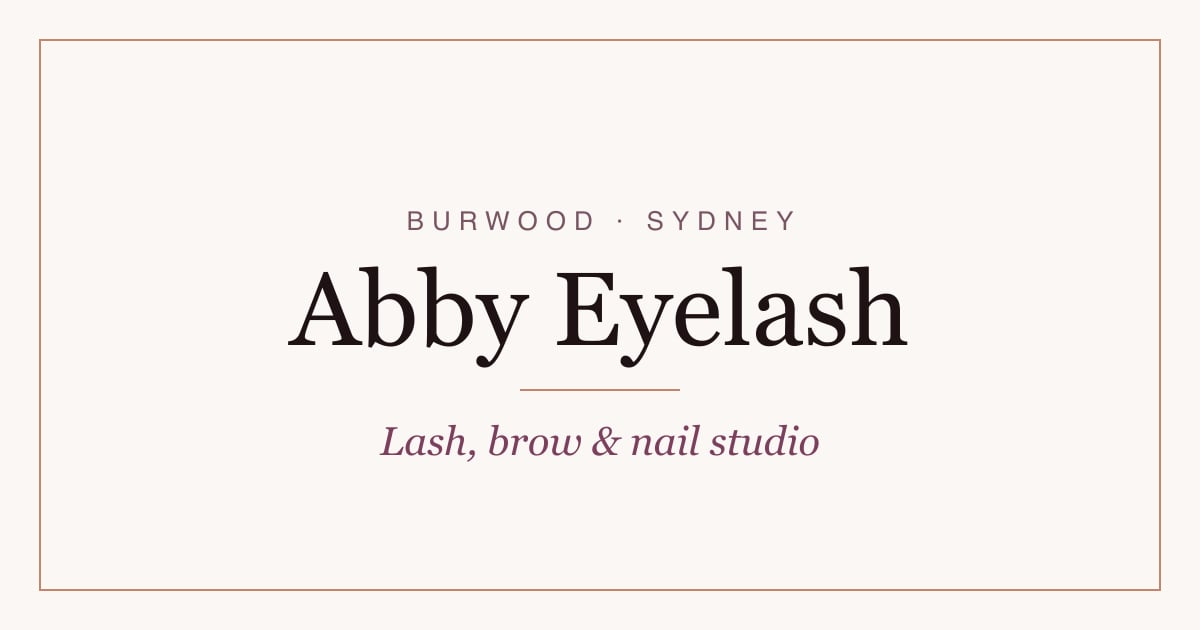
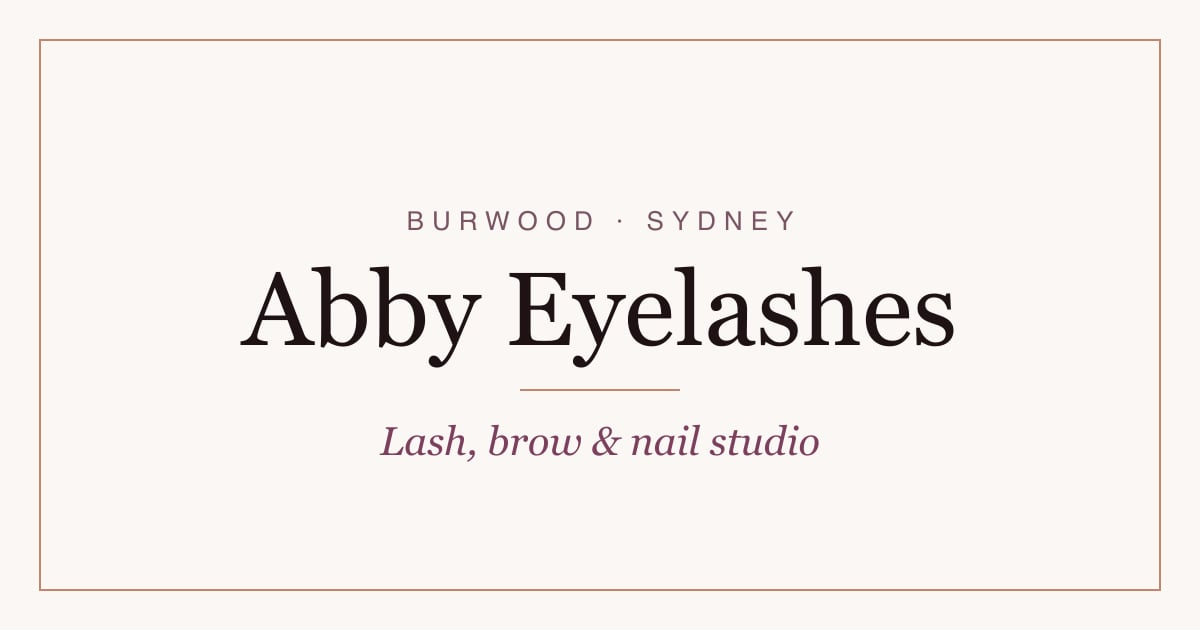
Brand name: Abby Eyelashes (matches the domain and the GA4 account)
All listings copy the name from src/data/site.ts and none exist yet, so this is the cheapest moment.
Needs Abby's OK; revert this one commit to go back to "Abby Eyelash".
Shorter gel-nails title to stay within 60 characters; OG image regenerated.

Changed region(s): [[0.185, 0.4222, 0.8017, 0.6032]]

diff --git a/src/data/service-content.ts b/src/data/service-content.ts
@@ -85,10 +85,10 @@ const nailSafety = {
 const content: Record<string, Record<Lang, ServiceContent>> = {
   [L]: {
     en: {
-      title: 'Eyelash Extensions in Burwood | Abby Eyelash',
+      title: 'Eyelash Extensions in Burwood | Abby Eyelashes',
       description: `Japanese classic and hybrid eyelash extensions by Abby in Burwood NSW. Full sets from ${$(L, 'classic-natural')}, infills from ${opt(L, 'infill-2w').pct}% of your last price. Aftercare and allergy advice.`,
       h1: ['Eyelash extensions ', 'in Burwood.'],
-      intro: `Eyelash extensions are single synthetic lashes bonded one at a time to your natural lashes with a cosmetic adhesive. At Abby Eyelash in Burwood NSW 2134, a Japanese classic set is ${$(L, 'classic-natural')} natural or ${$(L, 'classic-full')} full (about ${span(L, 'classic-natural', 'classic-full')} minutes), and a hybrid set is ${$(L, 'hybrid-natural')} natural or ${$(L, 'hybrid-full')} full. Each extension lasts as long as the natural lash it sits on, so most clients book an infill every 2–3 weeks; the price depends on how soon you come back.`,
+      intro: `Eyelash extensions are single synthetic lashes bonded one at a time to your natural lashes with a cosmetic adhesive. At Abby Eyelashes in Burwood NSW 2134, a Japanese classic set is ${$(L, 'classic-natural')} natural or ${$(L, 'classic-full')} full (about ${span(L, 'classic-natural', 'classic-full')} minutes), and a hybrid set is ${$(L, 'hybrid-natural')} natural or ${$(L, 'hybrid-full')} full. Each extension lasts as long as the natural lash it sits on, so most clients book an infill every 2–3 weeks; the price depends on how soon you come back.`,
       sections: [
         {
           h2: ['Classic, hybrid or styled: ', 'which suits you?'],
@@ -164,10 +164,10 @@ const content: Record<string, Record<Lang, ServiceContent>> = {
       ],
     },
     zh: {
-      title: '宝活 Burwood 嫁接睫毛 | Abby Eyelash 美睫',
+      title: '宝活 Burwood 嫁接睫毛 | Abby Eyelashes 美睫',
       description: `悉尼宝活 Burwood 嫁接睫毛：日式单根 ${$(L, 'classic-natural')} 起，回补为上次价格的 ${opt(L, 'infill-2w').pct}% 起。Abby 亲手逐根嫁接，附术后护理、回补价格和过敏说明。`,
       h1: ['宝活 Burwood ', '嫁接睫毛'],
-      intro: `嫁接睫毛（也叫种睫毛、接睫毛）是用专用睫毛胶，把一根根合成睫毛逐根粘在你的真睫毛上。在 Burwood NSW 2134 的 Abby Eyelash，日式单根自然款 ${$(L, 'classic-natural')}、浓密款 ${$(L, 'classic-full')}（约 ${span(L, 'classic-natural', 'classic-full')} 分钟），开花 / 轻盈自然款 ${$(L, 'hybrid-natural')}、浓密款 ${$(L, 'hybrid-full')}。嫁接的睫毛会随真睫毛自然脱落，大多数客人每 2–3 周回补一次，越早回补越便宜。`,
+      intro: `嫁接睫毛（也叫种睫毛、接睫毛）是用专用睫毛胶，把一根根合成睫毛逐根粘在你的真睫毛上。在 Burwood NSW 2134 的 Abby Eyelashes，日式单根自然款 ${$(L, 'classic-natural')}、浓密款 ${$(L, 'classic-full')}（约 ${span(L, 'classic-natural', 'classic-full')} 分钟），开花 / 轻盈自然款 ${$(L, 'hybrid-natural')}、浓密款 ${$(L, 'hybrid-full')}。嫁接的睫毛会随真睫毛自然脱落，大多数客人每 2–3 周回补一次，越早回补越便宜。`,
       sections: [
         {
           h2: ['日式单根、开花还是造型款？', '怎么选'],
@@ -244,10 +244,10 @@ const content: Record<string, Record<Lang, ServiceContent>> = {
 
   [LL]: {
     en: {
-      title: 'Keratin Lash Lift in Burwood | Abby Eyelash',
+      title: 'Keratin Lash Lift in Burwood | Abby Eyelashes',
       description: `Keratin lash lift in Burwood NSW: ${$(LL, 'keratin-lift')}, about ${m(LL, 'keratin-lift')} minutes, results last 1–2 months. What happens, aftercare, sensitive eyes and who it suits.`,
       h1: ['Keratin lash lift ', 'in Burwood.'],
-      intro: `A keratin lash lift curls your own lashes upward from the root with a lifting solution and a keratin treatment, so they look longer and more open without mascara or extensions. Tinting is not included. At Abby Eyelash in Burwood NSW 2134, a keratin lash lift is ${$(LL, 'keratin-lift')} and takes about ${m(LL, 'keratin-lift')} minutes. Results usually last 1–2 months, depending on how fast your lashes grow.`,
+      intro: `A keratin lash lift curls your own lashes upward from the root with a lifting solution and a keratin treatment, so they look longer and more open without mascara or extensions. Tinting is not included. At Abby Eyelashes in Burwood NSW 2134, a keratin lash lift is ${$(LL, 'keratin-lift')} and takes about ${m(LL, 'keratin-lift')} minutes. Results usually last 1–2 months, depending on how fast your lashes grow.`,
       sections: [
         {
           h2: ['Who a lash lift ', 'suits'],
@@ -318,10 +318,10 @@ const content: Record<string, Record<Lang, ServiceContent>> = {
       ],
     },
     zh: {
-      title: '宝活 Burwood 角蛋白翘睫 | Abby Eyelash',
+      title: '宝活 Burwood 角蛋白翘睫 | Abby Eyelashes',
       description: `悉尼宝活 Burwood 角蛋白翘睫：${$(LL, 'keratin-lift')}，约 ${m(LL, 'keratin-lift')} 分钟，效果可维持 1–2 个月。流程、术后护理、敏感眼睛和适合人群说明。`,
       h1: ['宝活 Burwood ', '角蛋白翘睫'],
-      intro: `翘睫（也叫睫毛翘、角蛋白翘睫）是用专用药水把你自己的睫毛从根部往上定型，再做角蛋白护理，不用睫毛膏、不用嫁接也显得更长更有神。不含染色。在 Burwood NSW 2134 的 Abby Eyelash，角蛋白翘睫 ${$(LL, 'keratin-lift')}，约 ${m(LL, 'keratin-lift')} 分钟。效果可维持 1–2 个月，视个人睫毛生长速度而定。`,
+      intro: `翘睫（也叫睫毛翘、角蛋白翘睫）是用专用药水把你自己的睫毛从根部往上定型，再做角蛋白护理，不用睫毛膏、不用嫁接也显得更长更有神。不含染色。在 Burwood NSW 2134 的 Abby Eyelashes，角蛋白翘睫 ${$(LL, 'keratin-lift')}，约 ${m(LL, 'keratin-lift')} 分钟。效果可维持 1–2 个月，视个人睫毛生长速度而定。`,
       sections: [
         {
           h2: ['哪些人', '适合翘睫'],
@@ -395,10 +395,10 @@ const content: Record<string, Record<Lang, ServiceContent>> = {
 
   [B]: {
     en: {
-      title: 'Powder Brows in Burwood | Semi-Permanent | Abby Eyelash',
+      title: 'Powder Brows in Burwood | Semi-Permanent | Abby Eyelashes',
       description: `Semi-permanent powder brows by Abby in Burwood NSW: ${$(B, 'powder')} (was $${was(B, 'powder')}), about ${m(B, 'powder')} minutes, one free touch-up within 3 months. Healing and aftercare.`,
       h1: ['Powder brows ', 'in Burwood.'],
-      intro: `Powder brows (also called ombré brows or a powder brow tattoo) are a semi-permanent brow treatment: fine dots of cosmetic pigment are placed in the skin to build a soft, filled-in look, like a light brow powder that doesn’t wash off. At Abby Eyelash in Burwood NSW 2134, powder brows are currently ${$(B, 'powder')} (usually $${was(B, 'powder')}) and take about ${m(B, 'powder')} minutes, including mapping the shape with you. One touch-up within 3 months is included free.`,
+      intro: `Powder brows (also called ombré brows or a powder brow tattoo) are a semi-permanent brow treatment: fine dots of cosmetic pigment are placed in the skin to build a soft, filled-in look, like a light brow powder that doesn’t wash off. At Abby Eyelashes in Burwood NSW 2134, powder brows are currently ${$(B, 'powder')} (usually $${was(B, 'powder')}) and take about ${m(B, 'powder')} minutes, including mapping the shape with you. One touch-up within 3 months is included free.`,
       sections: [
         {
           h2: ['Who powder brows ', 'suit'],
@@ -451,15 +451,15 @@ const content: Record<string, Record<Lang, ServiceContent>> = {
         CANCEL_BROWS.en,
       ],
       alt: {
-        hero: 'Soft, shaded powder brows after a semi-permanent brow appointment at Abby Eyelash, Burwood',
+        hero: 'Soft, shaded powder brows after a semi-permanent brow appointment at Abby Eyelashes, Burwood',
         detail: 'Abby mapping a brow shape before a powder brows treatment',
       },
     },
     zh: {
-      title: '宝活 Burwood 半永久雾眉 | Abby Eyelash',
+      title: '宝活 Burwood 半永久雾眉 | Abby Eyelashes',
       description: `悉尼宝活 Burwood 半永久雾眉：现价 ${$(B, 'powder')}（原价 $${was(B, 'powder')}），约 ${m(B, 'powder')} 分钟，3 个月内免费补色一次。流程、恢复期与护理说明。`,
       h1: ['宝活 Burwood ', '半永久雾眉'],
-      intro: `雾眉（也就是常说的半永久纹眉、粉雾眉）是一种半永久眉妆：用很细的点状手法把色料打入皮肤浅层，形成柔和的粉雾感，像淡淡的眉粉，但不会被洗掉。在 Burwood NSW 2134 的 Abby Eyelash，雾眉现价 ${$(B, 'powder')}（原价 $${was(B, 'powder')}），约 ${m(B, 'powder')} 分钟，包含和你一起设计眉形。3 个月内免费补色一次。`,
+      intro: `雾眉（也就是常说的半永久纹眉、粉雾眉）是一种半永久眉妆：用很细的点状手法把色料打入皮肤浅层，形成柔和的粉雾感，像淡淡的眉粉，但不会被洗掉。在 Burwood NSW 2134 的 Abby Eyelashes，雾眉现价 ${$(B, 'powder')}（原价 $${was(B, 'powder')}），约 ${m(B, 'powder')} 分钟，包含和你一起设计眉形。3 个月内免费补色一次。`,
       sections: [
         {
           h2: ['哪些人', '适合雾眉'],
@@ -512,7 +512,7 @@ const content: Record<string, Record<Lang, ServiceContent>> = {
         CANCEL_BROWS.zh,
       ],
       alt: {
-        hero: 'Abby Eyelash（Burwood）完成的柔和半永久雾眉',
+        hero: 'Abby Eyelashes（Burwood）完成的柔和半永久雾眉',
         detail: 'Abby 在做雾眉前为客人设计眉形',
       },
     },
@@ -520,10 +520,10 @@ const content: Record<string, Record<Lang, ServiceContent>> = {
 
   [H]: {
     en: {
-      title: 'Hand-Painted Nail Art in Burwood | Abby Eyelash',
+      title: 'Hand-Painted Nail Art in Burwood | Abby Eyelashes',
       description: `Custom hand-painted nail art designed with you and painted by Abby in Burwood NSW. Priced per design, from about ${m(H, 'nail-art')} minutes. Extensions ${ext()} per nail.`,
       h1: ['Hand-painted nail art ', 'in Burwood.'],
-      intro: `Hand-painted nail art is a custom design that Abby plans with you and paints by hand with fine brushes, not stickers or printed wraps. At Abby Eyelash in Burwood NSW 2134, each design is priced individually because it depends on the detail and the number of nails; Abby confirms the price with you before she starts. Allow at least ${m(H, 'nail-art')} minutes. Painted over gel and sealed with a gel top coat, it typically lasts about 4 weeks.`, // OWNER-REVIEW: wear time
+      intro: `Hand-painted nail art is a custom design that Abby plans with you and paints by hand with fine brushes, not stickers or printed wraps. At Abby Eyelashes in Burwood NSW 2134, each design is priced individually because it depends on the detail and the number of nails; Abby confirms the price with you before she starts. Allow at least ${m(H, 'nail-art')} minutes. Painted over gel and sealed with a gel top coat, it typically lasts about 4 weeks.`, // OWNER-REVIEW: wear time
       sections: [
         {
           h2: ['Designs ', 'made with you'],
@@ -576,10 +576,10 @@ const content: Record<string, Record<Lang, ServiceContent>> = {
       ],
     },
     zh: {
-      title: '宝活 Burwood 手绘造型美甲 | Abby Eyelash',
+      title: '宝活 Burwood 手绘造型美甲 | Abby Eyelashes',
       description: `悉尼宝活 Burwood 手绘造型美甲：和你一起设计，由 Abby 亲手绘制。按款式报价，约 ${m(H, 'nail-art')} 分钟起。延长每只 ${ext()}。`,
       h1: ['宝活 Burwood ', '手绘造型'],
-      intro: `手绘造型是 Abby 和你一起设计、再用细笔一笔一笔手绘的定制款，不用贴纸，也不是印花甲片。在 Burwood NSW 2134 的 Abby Eyelash，每款都单独报价，价格取决于图案的复杂程度和画几根，Abby 会在开始前跟你确认价格。时间请预留 ${m(H, 'nail-art')} 分钟以上。图案画在凝胶上，再用封层封住，一般能维持 4 周左右。`, // OWNER-REVIEW
+      intro: `手绘造型是 Abby 和你一起设计、再用细笔一笔一笔手绘的定制款，不用贴纸，也不是印花甲片。在 Burwood NSW 2134 的 Abby Eyelashes，每款都单独报价，价格取决于图案的复杂程度和画几根，Abby 会在开始前跟你确认价格。时间请预留 ${m(H, 'nail-art')} 分钟以上。图案画在凝胶上，再用封层封住，一般能维持 4 周左右。`, // OWNER-REVIEW
       sections: [
         {
           h2: ['和你一起', '设计'],
@@ -635,10 +635,10 @@ const content: Record<string, Record<Lang, ServiceContent>> = {
 
   [G]: {
     en: {
-      title: 'Gel Nails Burwood | Cat-Eye · Aurora · French | Abby Eyelash',
+      title: 'Gel Nails Burwood · Cat-Eye, Aurora, French | Abby Eyelashes',
       description: `Gel nails in Burwood NSW by Abby: solid colour ${$(G, 'solid')}, cat-eye or aurora ${$(G, 'cat-eye')}, French ${$(G, 'french')}, builder gel included. Extensions ${ext()} per nail.`,
       h1: ['Gel nails ', 'in Burwood.'],
-      intro: `Gel nails (a gel manicure, sometimes called gel polish) are coloured gel cured under a lamp, so they leave the studio dry and glossy and typically last about 4 weeks. At Abby Eyelash in Burwood NSW 2134, every gel set includes a builder gel layer for strength: solid colour is ${$(G, 'solid')} (about ${m(G, 'solid')} minutes), cat-eye and aurora are ${$(G, 'cat-eye')} (about ${m(G, 'cat-eye')} minutes), and French is ${$(G, 'french')} (about ${m(G, 'french')} minutes). Extensions can be added for ${ext()} per nail.`,
+      intro: `Gel nails (a gel manicure, sometimes called gel polish) are coloured gel cured under a lamp, so they leave the studio dry and glossy and typically last about 4 weeks. At Abby Eyelashes in Burwood NSW 2134, every gel set includes a builder gel layer for strength: solid colour is ${$(G, 'solid')} (about ${m(G, 'solid')} minutes), cat-eye and aurora are ${$(G, 'cat-eye')} (about ${m(G, 'cat-eye')} minutes), and French is ${$(G, 'french')} (about ${m(G, 'french')} minutes). Extensions can be added for ${ext()} per nail.`,
       sections: [
         {
           h2: ['Four finishes: ', 'which one?'],
@@ -691,10 +691,10 @@ const content: Record<string, Record<Lang, ServiceContent>> = {
       ],
     },
     zh: {
-      title: '宝活 Burwood 凝胶美甲 | 猫眼 · 极光 · 法式 | Abby Eyelash',
+      title: '宝活 Burwood 凝胶美甲 | 猫眼 · 极光 · 法式 | Abby Eyelashes',
       description: `悉尼宝活 Burwood 凝胶美甲：单色 ${$(G, 'solid')}，猫眼或极光 ${$(G, 'cat-eye')}，法式 ${$(G, 'french')}，已含 Gel 建构。延长每只 ${ext()}。`,
       h1: ['宝活 Burwood ', '凝胶美甲'],
-      intro: `凝胶美甲（也叫光疗甲、甲油胶美甲）是照灯固化的彩色凝胶，做完就干、有光泽，一般能维持 4 周左右。在 Burwood NSW 2134 的 Abby Eyelash，每一套凝胶美甲都已包含 Gel 建构，让指甲更坚固：单色 ${$(G, 'solid')}（约 ${m(G, 'solid')} 分钟），猫眼和极光 ${$(G, 'cat-eye')}（约 ${m(G, 'cat-eye')} 分钟），法式 ${$(G, 'french')}（约 ${m(G, 'french')} 分钟）。需要加长可加选延长，每只 ${ext()}。`,
+      intro: `凝胶美甲（也叫光疗甲、甲油胶美甲）是照灯固化的彩色凝胶，做完就干、有光泽，一般能维持 4 周左右。在 Burwood NSW 2134 的 Abby Eyelashes，每一套凝胶美甲都已包含 Gel 建构，让指甲更坚固：单色 ${$(G, 'solid')}（约 ${m(G, 'solid')} 分钟），猫眼和极光 ${$(G, 'cat-eye')}（约 ${m(G, 'cat-eye')} 分钟），法式 ${$(G, 'french')}（约 ${m(G, 'french')} 分钟）。需要加长可加选延长，每只 ${ext()}。`,
       sections: [
         {
           h2: ['四种款式，', '怎么选'],
@@ -750,10 +750,10 @@ const content: Record<string, Record<Lang, ServiceContent>> = {
 
   [X]: {
     en: {
-      title: 'Nail Extensions in Burwood | $6 per Nail | Abby Eyelash',
+      title: 'Nail Extensions in Burwood | $6 per Nail | Abby Eyelashes',
       description: `Nail tip extensions in Burwood NSW by Abby: ${ext()} per nail, added to any gel or hand-painted design. How it works, how long it lasts and aftercare.`,
       h1: ['Nail extensions ', 'in Burwood.'],
-      intro: `Nail extensions add length and shape with a nail tip bonded to your natural nail and finished in gel. At Abby Eyelash in Burwood NSW 2134, extensions are ${ext()} per nail and are added to any ${link('en', G, 'gel nail')} or ${link('en', H, 'hand-painted')} design, so you only pay for the nails you want longer. When you book, choose your design first and then the number of nails to extend.`,
+      intro: `Nail extensions add length and shape with a nail tip bonded to your natural nail and finished in gel. At Abby Eyelashes in Burwood NSW 2134, extensions are ${ext()} per nail and are added to any ${link('en', G, 'gel nail')} or ${link('en', H, 'hand-painted')} design, so you only pay for the nails you want longer. When you book, choose your design first and then the number of nails to extend.`,
       sections: [
         {
           h2: ['How the price ', 'works'],
@@ -805,10 +805,10 @@ const content: Record<string, Record<Lang, ServiceContent>> = {
       ],
     },
     zh: {
-      title: '宝活 Burwood 延长甲 | 每只 $6 | Abby Eyelash',
+      title: '宝活 Burwood 延长甲 | 每只 $6 | Abby Eyelashes',
       description: `悉尼宝活 Burwood 甲片延长：每只 ${ext()}，可加在任何凝胶或手绘款上。流程、能维持多久和护理方法。`,
       h1: ['宝活 Burwood ', '延长甲'],
-      intro: `延长甲是在真指甲上接上甲片、再用凝胶完成的加长方式，马上就有长度和甲型。在 Burwood NSW 2134 的 Abby Eyelash，延长每只 ${ext()}，可以加在任何${link('zh', G, '凝胶美甲')}或${link('zh', H, '手绘造型')}上，想加长几只就付几只。预约时先选款式，再选要延长几只。`,
+      intro: `延长甲是在真指甲上接上甲片、再用凝胶完成的加长方式，马上就有长度和甲型。在 Burwood NSW 2134 的 Abby Eyelashes，延长每只 ${ext()}，可以加在任何${link('zh', G, '凝胶美甲')}或${link('zh', H, '手绘造型')}上，想加长几只就付几只。预约时先选款式，再选要延长几只。`,
       sections: [
         {
           h2: ['价格', '怎么算'],

diff --git a/src/i18n/booking.ts b/src/i18n/booking.ts
@@ -2,7 +2,7 @@
 import type { Lang } from '../data/services';
 
 const en = {
-  metaTitle: 'Book an appointment | Abby Eyelash, Burwood',
+  metaTitle: 'Book an appointment | Abby Eyelashes, Burwood',
   metaDescription:
     'Book eyelash extensions, lash lifts, powder brows or gel nails with Abby in Burwood NSW. Pick a service and time online; we confirm by SMS or WhatsApp.',
   eyebrow: 'Online booking',
@@ -58,7 +58,7 @@ const en = {
   sPrice: 'Price',
   sDeposit: 'Deposit',
   agreeDeposit: 'I agree to the deposit terms: if I cancel or reschedule within {hours} hours of my appointment, or don’t turn up, the ${deposit} deposit is not refunded. If I cancel earlier, it moves to my new booking or is refunded in full. If Abby has to cancel, it is refunded in full.',
-  agreePhotos: 'Optional: I am 18 or over, and Abby may photograph the result at my appointment (lashes, brows or nails; part of my face may show) and use the photos to promote Abby Eyelash on its website, social media and ads, with no payment to me. Abby Eyelash owns these photos and any income from them. Saying no doesn’t affect my booking. I can withdraw by message at any time: Abby then removes the photos from her website and social accounts within a reasonable time (printed materials and other people’s shares can’t be recalled).',
+  agreePhotos: 'Optional: I am 18 or over, and Abby may photograph the result at my appointment (lashes, brows or nails; part of my face may show) and use the photos to promote Abby Eyelashes on its website, social media and ads, with no payment to me. Abby Eyelashes owns these photos and any income from them. Saying no doesn’t affect my booking. I can withdraw by message at any time: Abby then removes the photos from her website and social accounts within a reasonable time (printed materials and other people’s shares can’t be recalled).',
   submit: 'Book appointment',
   submitting: 'Sending…',
   privacyNote: 'By booking you confirm you have read our {link}.',
@@ -85,13 +85,13 @@ const en = {
   addGoogle: 'Add to Google Calendar',
   downloadIcs: 'Download .ics',
   home: 'Back to home',
-  calendarTitle: '{service} at Abby Eyelash (pending)',
+  calendarTitle: '{service} at Abby Eyelashes (pending)',
 };
 
 type Strings = typeof en;
 
 const zh: Strings = {
-  metaTitle: '在线预约 | Abby Eyelash · Burwood 美睫美甲',
+  metaTitle: '在线预约 | Abby Eyelashes · Burwood 美睫美甲',
   metaDescription: '在线预约 Abby 的嫁接睫毛、翘睫、雾眉与美甲服务（悉尼 Burwood）。选择项目、日期和时间，我们会通过短信或 WhatsApp 确认。',
   eyebrow: '在线预约',
   titleA: '预约你的',
@@ -141,7 +141,7 @@ const zh: Strings = {
   sPrice: '价格',
   sDeposit: '订金',
   agreeDeposit: '我同意订金条款：如我在预约前 {hours} 小时以内取消或改期，或未到店，${deposit} 订金不予退还；提前 {hours} 小时以上取消，订金可顺延到新的预约，或全额退还；如 Abby 取消预约，订金全额退还。',
-  agreePhotos: '（选填）我已满 18 岁，同意 Abby 拍摄本次服务效果（睫毛、眉毛或美甲，照片可能包含部分面部），并用于 Abby Eyelash 的网站、社交媒体和广告宣传，我不收取任何费用。这些照片及由此产生的任何收益均归 Abby Eyelash 所有。不同意不影响预约。我可随时发消息撤回同意：Abby 会在合理时间内删除她网站和社交账号上的相关照片（已印刷的物料及他人转发的内容无法收回）。',
+  agreePhotos: '（选填）我已满 18 岁，同意 Abby 拍摄本次服务效果（睫毛、眉毛或美甲，照片可能包含部分面部），并用于 Abby Eyelashes 的网站、社交媒体和广告宣传，我不收取任何费用。这些照片及由此产生的任何收益均归 Abby Eyelashes 所有。不同意不影响预约。我可随时发消息撤回同意：Abby 会在合理时间内删除她网站和社交账号上的相关照片（已印刷的物料及他人转发的内容无法收回）。',
   submit: '提交预约',
   submitting: '提交中…',
   privacyNote: '提交即表示你已阅读我们的{link}。',
@@ -168,7 +168,7 @@ const zh: Strings = {
   addGoogle: '添加到 Google 日历',
   downloadIcs: '下载 .ics 日历文件',
   home: '返回首页',
-  calendarTitle: 'Abby Eyelash · {service}（待确认）',
+  calendarTitle: 'Abby Eyelashes · {service}（待确认）',
 };
 
 export const bookingStrings: Record<Lang, Strings> = { en, zh };

diff --git a/src/i18n/common.ts b/src/i18n/common.ts
@@ -17,7 +17,7 @@ const en = {
     openMenu: 'Open menu',
     closeMenu: 'Close menu',
     main: 'Main',
-    home: 'Abby Eyelash home',
+    home: 'Abby Eyelashes home',
     tagline: 'Lash & Nail Studio',
     language: 'Language',
   },
@@ -134,7 +134,7 @@ const en = {
     byAppointment: 'By appointment only — Abby works on her own, so please book ahead. Please text rather than call (SMS or WhatsApp): if a call goes unanswered, she’s with a client and will text you back as soon as she can.',
     lastStart: 'Hours are booking times: the last appointment starts at {time}.',
     openMaps: 'Open in Google Maps',
-    mapTitle: 'Map showing Abby Eyelash in Burwood',
+    mapTitle: 'Map showing Abby Eyelashes in Burwood',
     bookOnline: 'Book your appointment online',
     call: 'WhatsApp to book',
   },
@@ -157,7 +157,7 @@ const zh: Strings = {
     openMenu: '打开菜单',
     closeMenu: '关闭菜单',
     main: '主导航',
-    home: 'Abby Eyelash 首页',
+    home: 'Abby Eyelashes 首页',
     tagline: '美睫 · 美甲工作室',
     language: '语言',
   },
@@ -273,7 +273,7 @@ const zh: Strings = {
     byAppointment: '仅限预约 —— Abby 一人工作，请提前预约。联系请尽量发短信或 WhatsApp，不要直接打电话；如果来电没有接听，多半是正在为客人服务，她会稍后用短信回复你。',
     lastStart: '以上为可预约时间，最晚 {time} 开始。',
     openMaps: '在 Google 地图中打开',
-    mapTitle: 'Abby Eyelash 在宝活的位置地图',
+    mapTitle: 'Abby Eyelashes 在宝活的位置地图',
     bookOnline: '在线预约',
     call: 'WhatsApp 预约',
   },
@@ -363,7 +363,7 @@ export const homeFaq: Record<Lang, { q: string; a: string }[]> = {
     },
     {
       q: 'Where is the studio?',
-      a: 'Abby Eyelash is a home studio on {address}, about a 5-minute walk from Burwood station. The exact address is sent when your booking is confirmed.',
+      a: 'Abby Eyelashes is a home studio on {address}, about a 5-minute walk from Burwood station. The exact address is sent when your booking is confirmed.',
     },
     {
       q: 'What happens at my first visit?',
@@ -401,7 +401,7 @@ export const homeFaq: Record<Lang, { q: string; a: string }[]> = {
     },
     {
       q: '工作室在哪里？',
-      a: 'Abby Eyelash 是位于 {address} 的家庭工作室，从宝活火车站（Burwood station）步行约 5 分钟。确认预约时会把详细地址发给你。',
+      a: 'Abby Eyelashes 是位于 {address} 的家庭工作室，从宝活火车站（Burwood station）步行约 5 分钟。确认预约时会把详细地址发给你。',
     },
     {
       q: '第一次去需要注意什么？',

diff --git a/src/i18n/service.ts b/src/i18n/service.ts
@@ -4,7 +4,7 @@ import type { Lang } from '../data/services';
 const en = {
   home: 'Home',
   breadcrumb: 'Breadcrumb',
-  eyebrow: 'Abby Eyelash · Burwood',
+  eyebrow: 'Abby Eyelashes · Burwood',
   book: 'Book this service',
   bookShort: 'Book now',
   call: 'WhatsApp',
@@ -28,7 +28,7 @@ const en = {
   map: 'Open in Google Maps',
   review: 'Leave us a review on Google',
   relatedEyebrow: 'More services',
-  relatedTitle: ['Also at ', 'Abby Eyelash.'] as [string, string],
+  relatedTitle: ['Also at ', 'Abby Eyelashes.'] as [string, string],
   ctaTitle: ['Ready when ', 'you are.'] as [string, string],
   styledTitle: 'Styled sets, ',
   styledAccent: 'twelve ways.',
@@ -44,7 +44,7 @@ type Strings = typeof en;
 const zh: Strings = {
   home: '首页',
   breadcrumb: '页面路径',
-  eyebrow: 'Abby Eyelash · 宝活 Burwood',
+  eyebrow: 'Abby Eyelashes · 宝活 Burwood',
   book: '预约此项目',
   bookShort: '立即预约',
   call: 'WhatsApp',
@@ -68,7 +68,7 @@ const zh: Strings = {
   map: '在 Google 地图中打开',
   review: '在 Google 上给我们留下评价',
   relatedEyebrow: '更多项目',
-  relatedTitle: ['Abby Eyelash 的', '其他项目'],
+  relatedTitle: ['Abby Eyelashes 的', '其他项目'],
   ctaTitle: ['选一个', '适合你的时间'],
   styledTitle: '造型款，',
   styledAccent: '12 种。',

diff --git a/src/components/booking/booking-client.ts b/src/components/booking/booking-client.ts
@@ -493,7 +493,7 @@ export function start(root: HTMLElement) {
       body: JSON.stringify({
         access_key: cfg.web3formsKey,
         subject: `New booking request (pending): ${d.name.trim()} – ${st.date} ${st.time}`,
-        from_name: 'Abby Eyelash website',
+        from_name: 'Abby Eyelashes website',
         replyto: d.email.trim(),
         name: d.name.trim(),
         phone: d.phone.trim(),
@@ -527,7 +527,7 @@ export function start(root: HTMLElement) {
     const ics = [
       'BEGIN:VCALENDAR',
       'VERSION:2.0',
-      'PRODID:-//Abby Eyelash//Booking//EN',
+      'PRODID:-//Abby Eyelashes//Booking//EN',
       'BEGIN:VEVENT',
       `UID:${stamp(start)}-${crypto.randomUUID?.() ?? Math.random().toString(36).slice(2)}@abby-eyelash`, // randomUUID only exists on HTTPS/localhost (not a phone on the LAN)
       `DTSTAMP:${stamp(Date.now())}`,

diff --git a/src/data/site.ts b/src/data/site.ts
@@ -2,7 +2,7 @@
 // Used by pages, JSON-LD and the booking API. Values marked PLACEHOLDER must be replaced before launch.
 
 export const site = {
-  name: 'Abby Eyelash',
+  name: 'Abby Eyelashes',
   owner: 'Abby',
   // Home studio: street name only, never the house number (Abby sends it when confirming). Must match Google Business Profile.
   address: {
